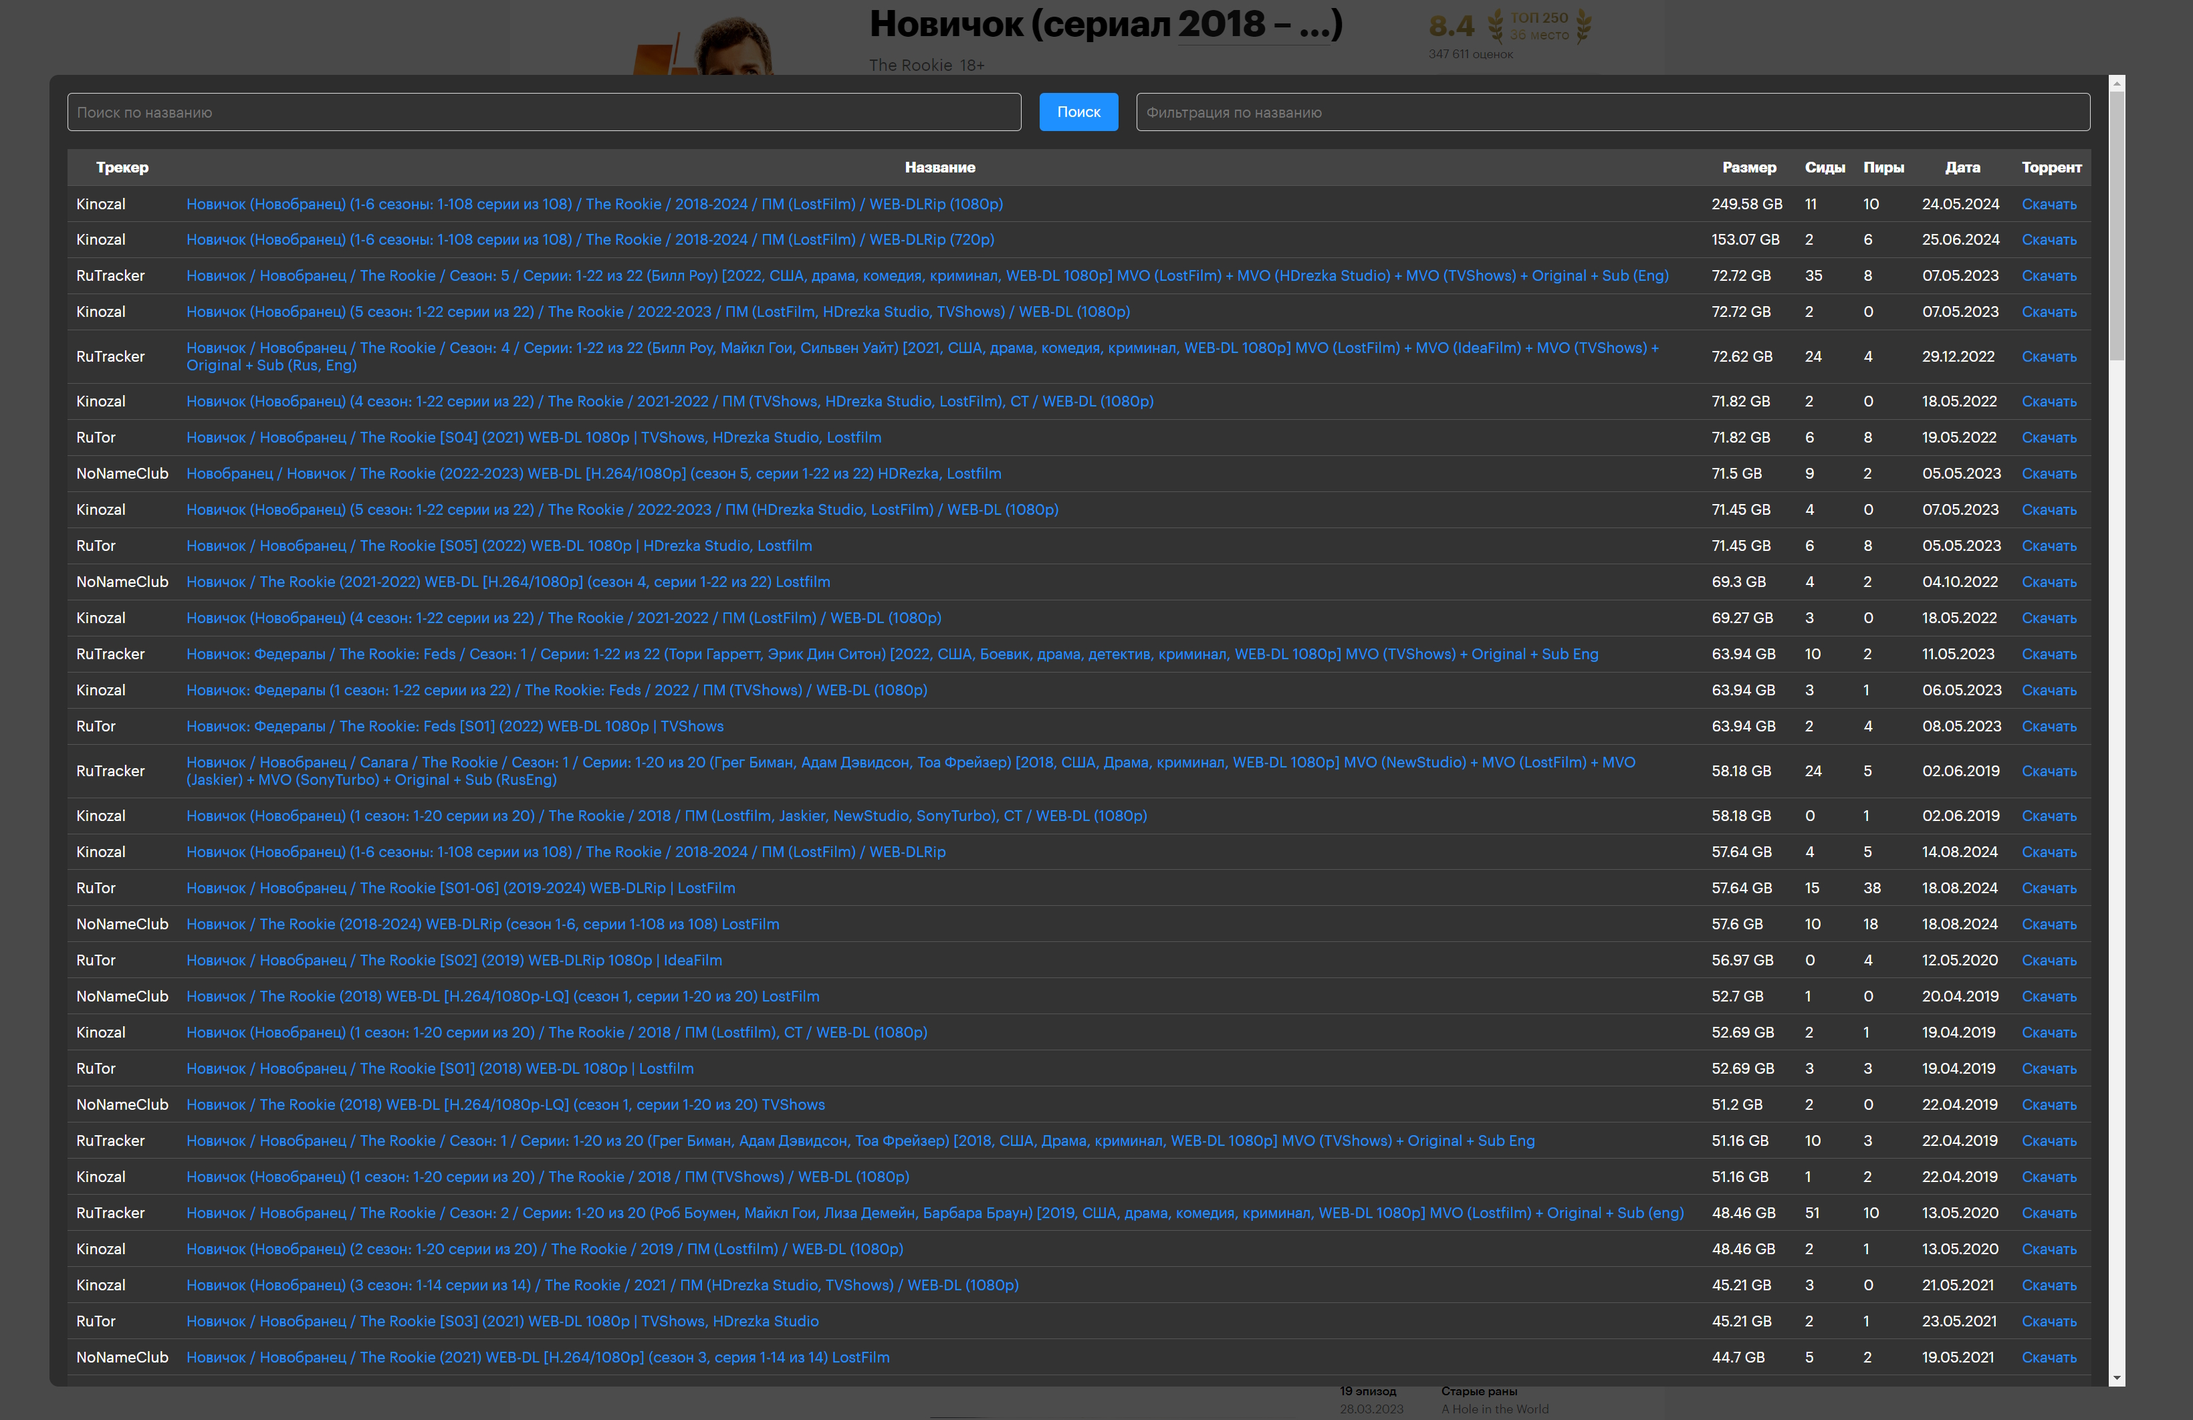
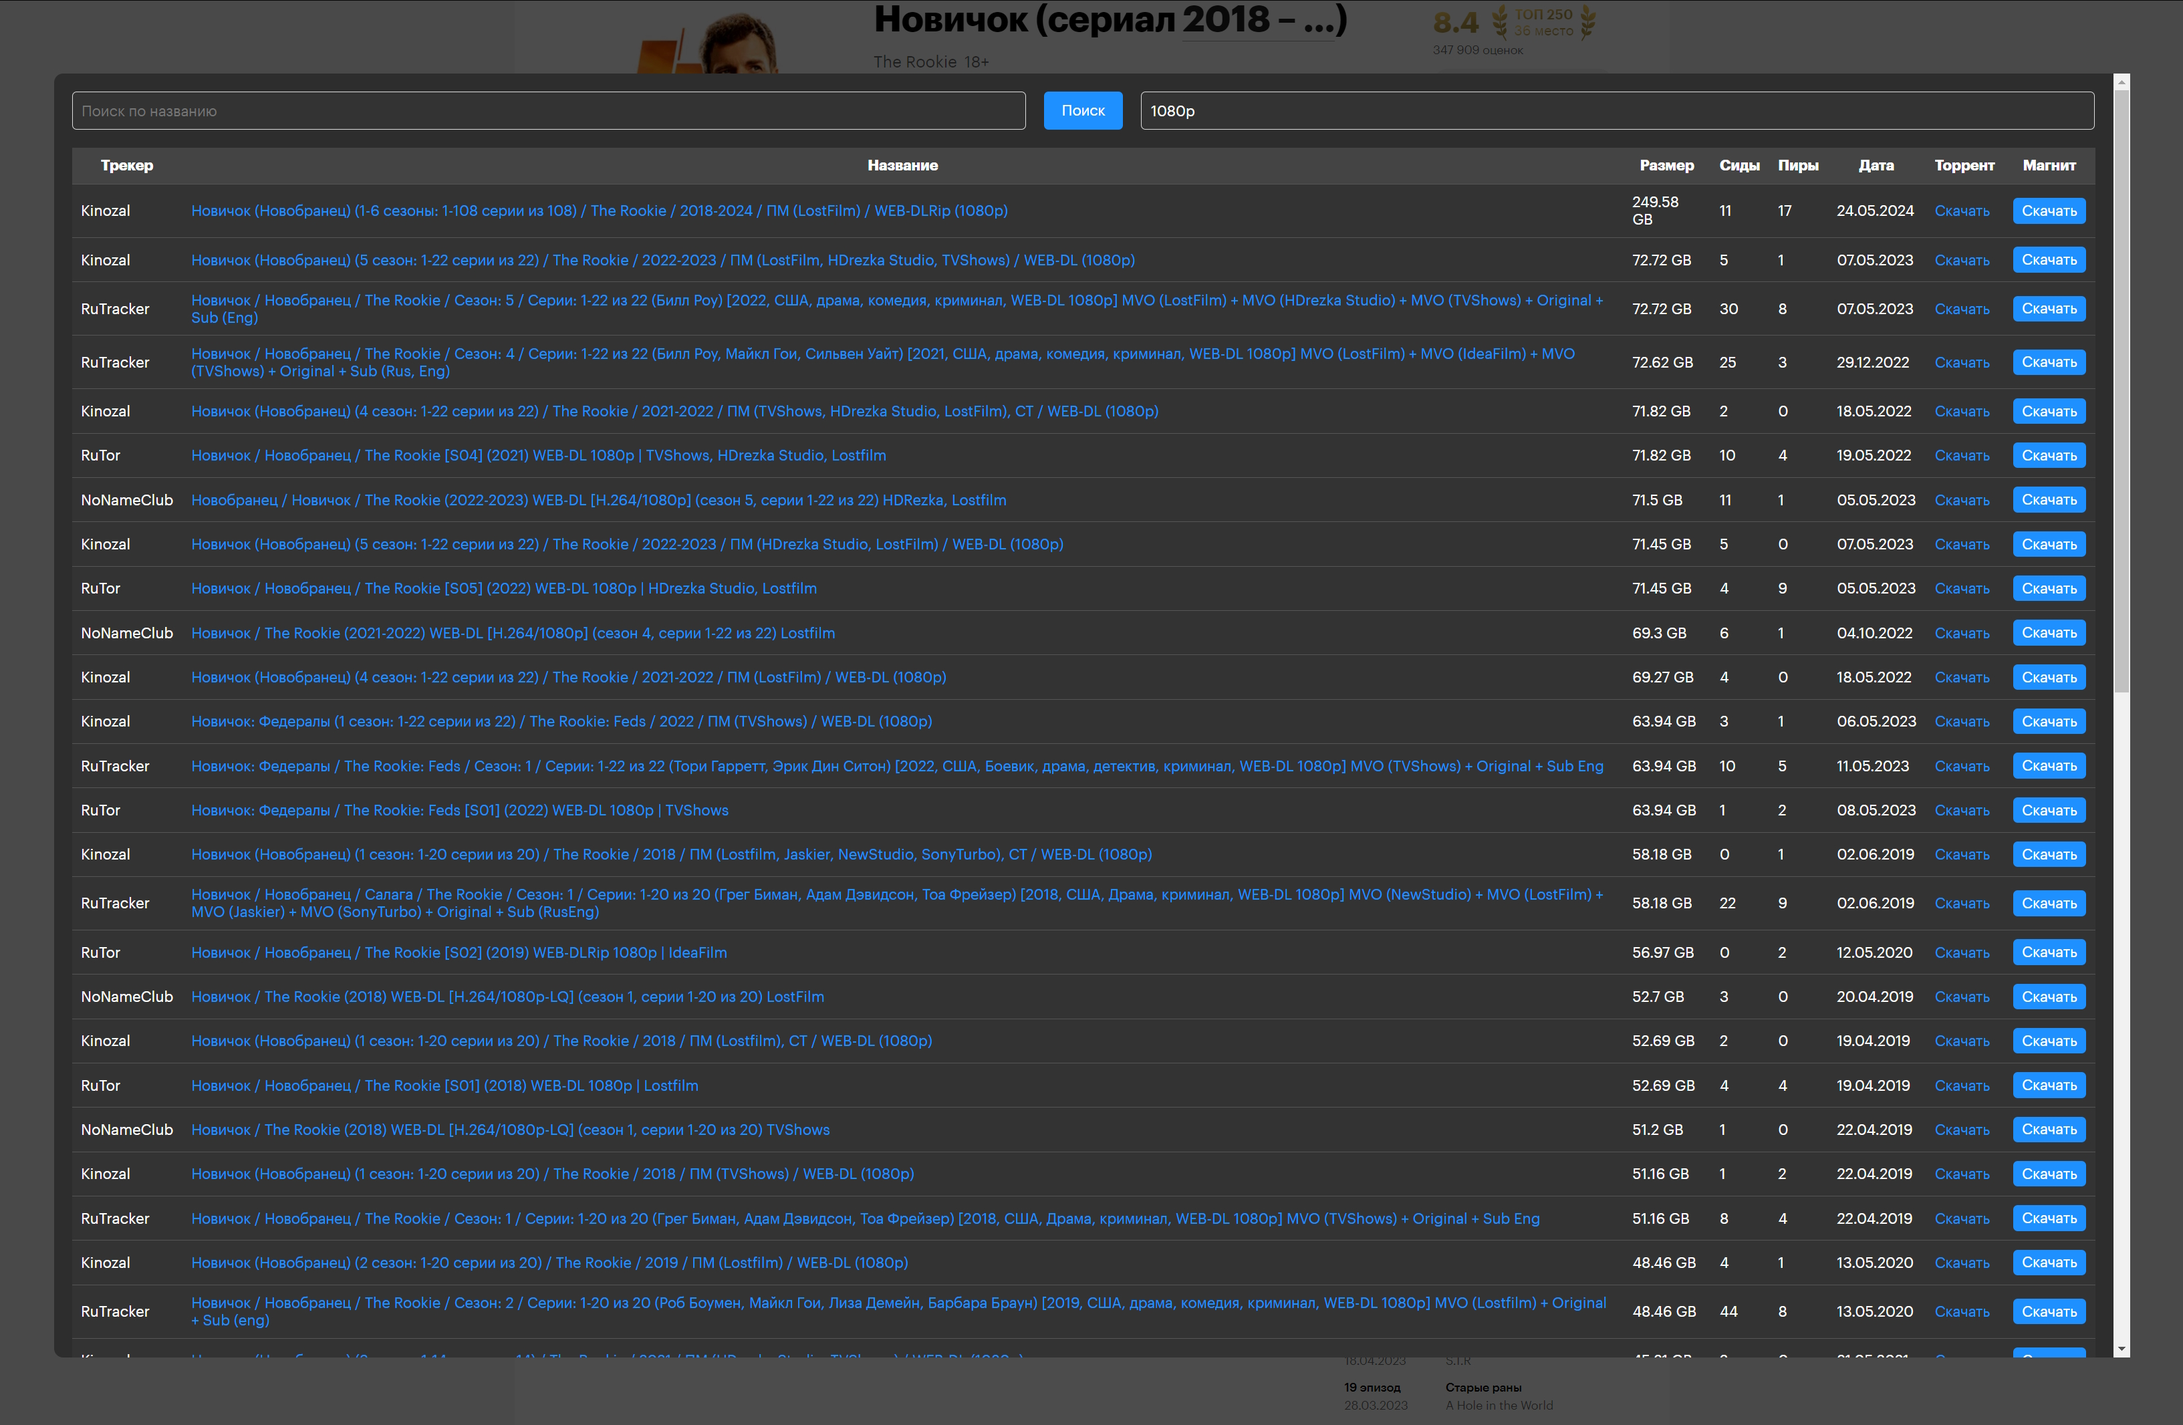
add magnet link for interface torapi

diff --git a/ChromeExtension/main.js b/ChromeExtension/main.js
@@ -478,6 +478,7 @@ const main = async function (url) {
                         <th style="padding: 10px; border-bottom: 1px solid #555; cursor: pointer;">Пиры</th>
                         <th style="padding: 10px; border-bottom: 1px solid #555; cursor: pointer;">Дата</th>
                         <th style="padding: 10px; border-bottom: 1px solid #555; cursor: pointer;">Торрент</th>
+                        <th style="padding: 10px; border-bottom: 1px solid #555; cursor: pointer;">Магнит</th>
                     </tr>
                 `;
                 table.appendChild(tableHead);
@@ -644,8 +645,39 @@ const main = async function (url) {
                             <td style="padding: 10px; border-bottom: 1px solid #555;">
                                 <a href="${item.Torrent}" target="_blank" style="color: #1e90ff; text-decoration: none;">Скачать</a>
                             </td>
+                            <td style="padding: 10px; border-bottom: 1px solid #555555;">
+                                <button style="padding: 5px 10px; background-color: #1e90ff; color: #ffffff; border: none; border-radius: 5px; cursor: pointer;">Скачать</button>
+                            </td>
                         `;
-                        tableBody.appendChild(row);
+                    // Обработчик для получения Magnet link
+                    const magnetButton = row.querySelector('button');
+                    magnetButton.addEventListener('click', function() {
+                        fetch(`https://toruapi.vercel.app/api/search/id/${source.toLowerCase()}?query=${item.Id}`)
+                            .then(response => response.json())
+                            .then(magnetData => {
+                                const magnetLink = magnetData[0].Magnet;
+                                if (magnetLink) {
+                                    chrome.storage.local.get(['MagnetCheckBox'], function (result) {
+                                        var MagnetCheckBox = result.MagnetCheckBox;
+                                        if (MagnetCheckBox) {
+                                            window.open(magnetLink, '_blank');
+                                        } else {
+                                            const infoHash = magnetData[0].Hash
+                                            if (infoHash) {
+                                                alert(`info hash: ${infoHash}`);
+                                            }
+                                        }
+                                    })
+                                } else {
+                                    alert('Магнитная ссылка не найдена');
+                                }
+                            })
+                            .catch(error => {
+                                console.error(error);
+                                alert('Ошибка при получении магнитной ссылки');
+                            });
+                    });
+                    tableBody.appendChild(row);
                     });
                 }
             }

diff --git a/ChromeExtension/popup.html b/ChromeExtension/popup.html
@@ -205,21 +205,23 @@
         <div class="title">Libre Kinopoisk</div>
     </header>
     <div class="container" id="homeState">
-        <b>Расширение, которое добавляет кнопки на сайт <a href="https://kinopoisk.ru">Кинопоиск</a> для быстрого поиска фильмов и сериалов в открытых источниках.</b>
+        <b>Расширение, которое добавляет кнопки на сайт <a href="https://kinopoisk.ru">Кинопоиск</a> и предоставляет интерфейс <a href="https://github.com/Lifailon/TorAPI">TorAPI</a> для быстрого поиска фильмов и сериалов в открытых источниках.</b>
         <br>
         <br>
         <button id="showTorrentTableButton">🔎 Поиск раздач в торрент трекерах</button>
         <br>
         <br>
-        <b>Поиск реализован с помощью сервера <a href="https://github.com/Lifailon/TorAPI">TorAPI</a> в стиле 🧥 <a href="https://github.com/Jackett/Jackett">Jackett</a></b>.
-        <br>
-        <br>
-        <b>Вы можете установить API сервер самостоятельно, используя контейнер <a href="https://hub.docker.com/r/lifailon/torapi">Docker</a> или использовать публичную версию на <a href="https://vercel.com/torapi/torapi">Vercel</a>.</b>
+        <div class="checkbox-container">
+            <input type="checkbox" id="MagnetCheckBox" class="checkbox-input">
+            <label for="MagnetCheckBox" class="checkbox-label"></label>
+            <span>Использовать магнитную ссылку или хеш сумму</span>
+        </div>
         <h3>Изменить адрес сервера:</h3>
         <div class="input-container">
             <input type="text" id="textInput" placeholder="Введите адрес сервера">
             <button id="saveButton">Сохранить</button>
-        </div>        
+        </div>
+        <br>
         <div id="messageBox" style="display: none;"></div>
         <p>© 2024 Lifailon | <a href="https://github.com/Lifailon/LibreKinopoisk">GitHub</a></p>
         <div class="bottom-buttons-container">

diff --git a/ChromeExtension/torapi.js b/ChromeExtension/torapi.js
@@ -327,15 +327,24 @@ function displayTorrentsOnPage() {
                             .then(magnetData => {
                                 const magnetLink = magnetData[0].Magnet;
                                 if (magnetLink) {
-                                    // Открываем Magnet ссылку в новой вкладке
-                                    window.open(magnetLink, '_blank');
+                                    chrome.storage.local.get(['MagnetCheckBox'], function (result) {
+                                        var MagnetCheckBox = result.MagnetCheckBox;
+                                        if (MagnetCheckBox) {
+                                            window.open(magnetLink, '_blank');
+                                        } else {
+                                            const infoHash = magnetData[0].Hash
+                                            if (infoHash) {
+                                                alert(`info hash: ${infoHash}`);
+                                            }
+                                        }
+                                    })
                                 } else {
-                                    alert('Magnet ссылка не найдена.');
+                                    alert('Магнитная ссылка не найдена');
                                 }
                             })
                             .catch(error => {
                                 console.error(error);
-                                alert('Ошибка при получении Magnet ссылки.');
+                                alert('Ошибка при получении магнитной ссылки');
                             });
                     });
                     tableBody.appendChild(row);

diff --git a/ChromeExtension/popup.js b/ChromeExtension/popup.js
@@ -98,6 +98,7 @@ homeButton.addEventListener('click', function() {
 })
 
 // Забираем все CheckBox
+var MagnetCheckBox = document.getElementById('MagnetCheckBox')
 var KinoboxCheckBox = document.getElementById('KinoboxCheckBox')
 var OnlineCheckBox = document.getElementById('OnlineCheckBox')
 var YouTubeCheckBox = document.getElementById('YouTubeCheckBox')
@@ -107,6 +108,11 @@ var DbRuCheckBox = document.getElementById('DbRuCheckBox')
 var TorrentCheckBox = document.getElementById('TorrentCheckBox')
 
 // При загрузке страницы, загружаем значение из chrome.storage и устанавливаем его для чекбокса
+document.addEventListener('DOMContentLoaded', function() {
+    chrome.storage.local.get('MagnetCheckBox', function(data) {
+        MagnetCheckBox.checked = data.MagnetCheckBox
+    })
+})
 document.addEventListener('DOMContentLoaded', function() {
     chrome.storage.local.get('KinoboxCheckBox', function(data) {
         KinoboxCheckBox.checked = data.KinoboxCheckBox
@@ -144,6 +150,9 @@ document.addEventListener('DOMContentLoaded', function() {
 })
 
 // При изменении состояния чекбокса сохраняем состояние чекбокса в chrome.storage
+MagnetCheckBox.addEventListener('change', function() {
+    chrome.storage.local.set({ 'MagnetCheckBox': this.checked })
+})
 KinoboxCheckBox.addEventListener('change', function() {
     chrome.storage.local.set({ 'KinoboxCheckBox': this.checked })
 })

diff --git a/ChromeExtension/background.js b/ChromeExtension/background.js
@@ -2,7 +2,7 @@
 chrome.runtime.onInstalled.addListener(function() {
     chrome.storage.local.get([
         'TorApiServer',
-        'textInput',
+        'MagnetCheckBox',
         'KinoboxCheckBox',
         'OnlineCheckBox',
         'YouTubeCheckBox', 
@@ -13,6 +13,9 @@ chrome.runtime.onInstalled.addListener(function() {
     ], function(data) {
         if (typeof data.TorApiServer === 'undefined') {
             chrome.storage.local.set({ 'TorApiServer': 'https://torapi.vercel.app' })
+        }
+        if (typeof data.MagnetCheckBox === 'undefined') {
+            chrome.storage.local.set({ 'MagnetCheckBox': true })
         }
         if (typeof data.KinoboxCheckBox === 'undefined') {
             chrome.storage.local.set({ 'KinoboxCheckBox': true })

diff --git a/README.md b/README.md
@@ -3,12 +3,12 @@
 </p>
 
 <h1 align="center">
-    Libre <img src="ChromeExtension/icons/icon128.png" width="30" />inopoisk
+    <img src="ChromeExtension/icons/icon128.png" width="30" /> Libre Kinopoisk
 </h1>
 
-Расширение Google Chrome, которое добавляет кнопки на сайт [Кинопоиск](http://kinopoisk.ru) и простой интерфейс [TorAPI](https://github.com/Lifailon/TorAPI) для быстрого поиска фильмов и сериалов в открытых источниках.
+Расширение Google Chrome, которое добавляет кнопки на сайт [Кинопоиск](http://kinopoisk.ru) и предоставляет интерфейс [TorAPI](https://github.com/Lifailon/TorAPI) для быстрого поиска фильмов и сериалов в открытых источниках.
 
-Проект вдохновлен расширением 🍿 [YoK](https://github.com/mrzlab630/chrome-extension-YoK) для поиска плееров через сервис ▶ [Kinobox](https://kinobox.tv) и интерфейсом 🧥 [Jackett](https://github.com/Jackett/Jackett) для централизованного поиска раздач в торрент трекерах.
+Проект вдохновлен расширением 🍿 [YoK](https://github.com/mrzlab630/chrome-extension-YoK) для поиска плееров через сервис [Kinobox](https://kinobox.tv) и интерфейсом 🧥 [Jackett](https://github.com/Jackett/Jackett) для централизованного поиска раздач в торрент трекерах.
 
 ### ✨ Реализовано:
 
@@ -55,8 +55,6 @@
 ## Другие проекты:
 
 - ✨ [TorAPI](https://github.com/Lifailon/TorAPI) - неофициальный `API` сервер (backend) для торрент трекеров RuTracker, Kinozal, RuTor и NoNameClub, который используется для централизованного получения торрент файлов и подробной информации о раздаче по названию фильма, сериала или идентификатору раздачи в формате `JSON`, а также предоставляет новостную `RSS` ленту для всех провайдеров.
-
-
 
 - 🧲 [Telegram бот для Кинозал](https://github.com/Lifailon/Kinozal-Bot) - позволяет автоматизировать процесс доставки контента до вашего телевизора, используя только телефон, предоставляющий привычный и удобный интерфейс для взаимодействия с торрент трекером [Кинозал](https://kinozal.tv), а также возможность управлять торрент клиентом [qBittorrent](https://github.com/qbittorrent/qBittorrent) или [Transmission](https://github.com/transmission/transmission) на вашем компьютере и синхронизацию с [Plex Media Server](https://www.plex.tv/personal-media-server), находясь удаленно от дома.
 
